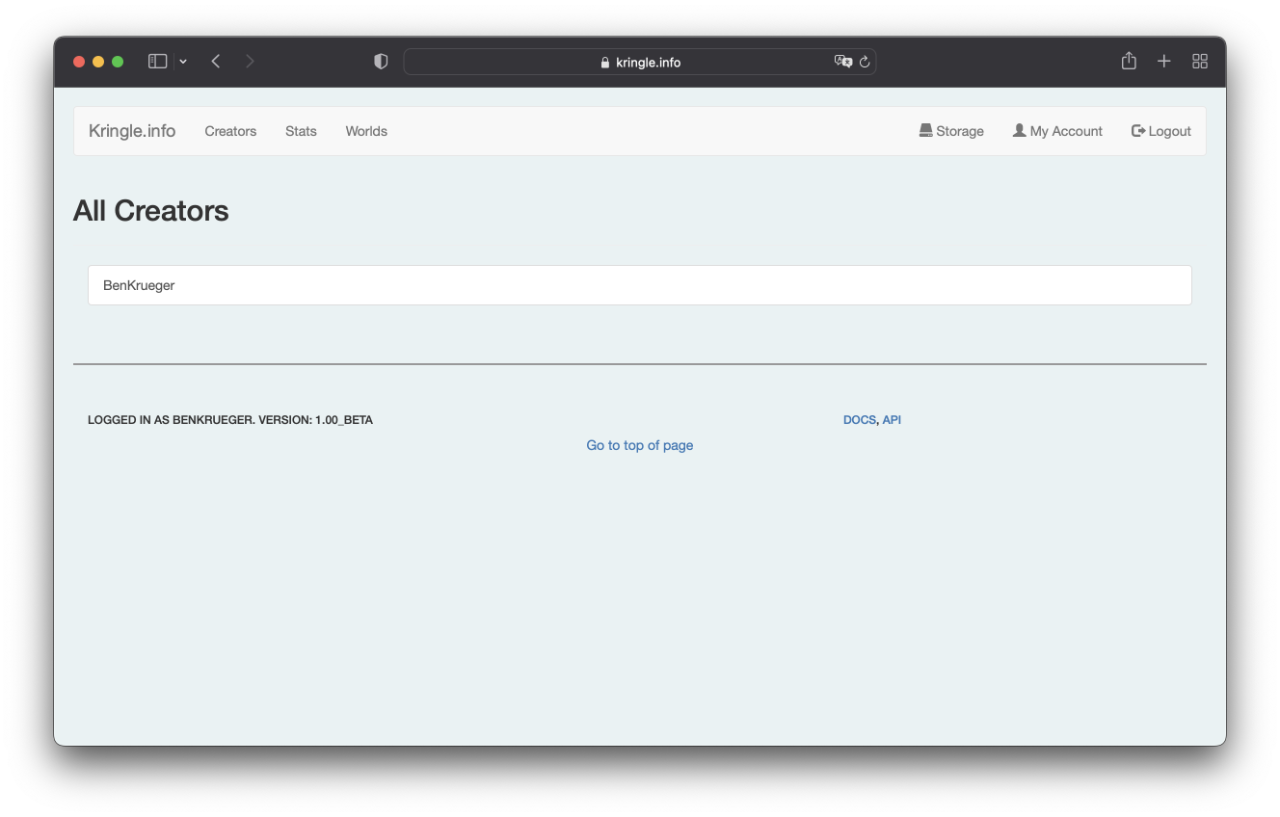
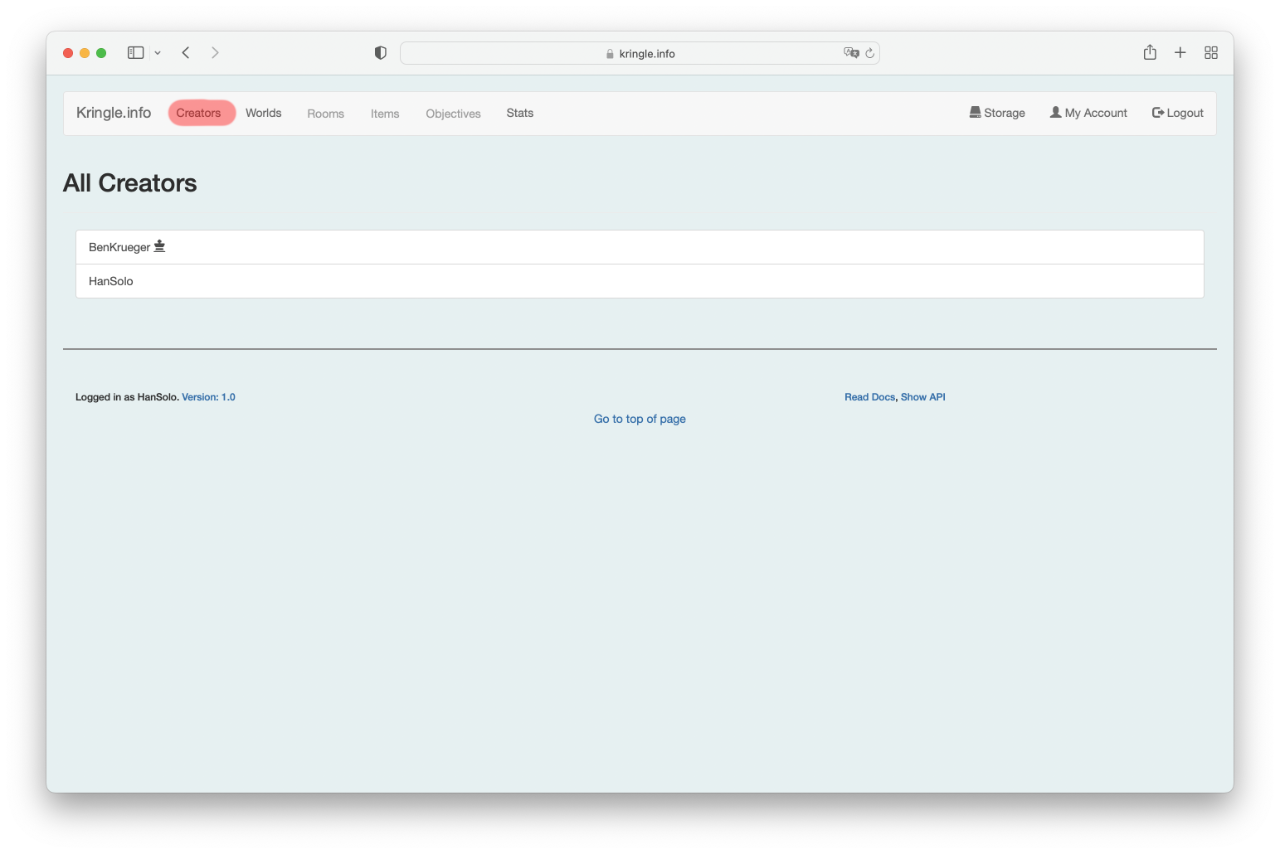
Update docs for stats and creators

diff --git a/docs/creators.md b/docs/creators.md
@@ -2,18 +2,19 @@
 
 ## All Creators
 
-You can see which creators are registered by clicking on *Creators*.  
+You can see which creators and users are registered by clicking on *Creators*.  
+Creators have a special badge.  
+
 If you click on an entry, you will be taken to the detailed view.  
 
 ![All Creators](./img/creators_all.png)
 
 ## Detailed View
 
-In the detailed view you can inform yourself about the respective creator.  
-The field *ID* shows the unique creator ID. This ID can be used for the REST API.  
-The field *Role* shows which role the creator has (anonymous user, registered user, creator).  
-The *Description* below provides a brief information about this creator.  
+In the detailed view you can inform yourself about the respective creator or user. The title also lists the role (creator or user).  
 If the creator has linked an image, it will be displayed here as well.  
+The *description* box below provides a brief information about this creator.  
+
 When you click on *All creators* you will get back to the creators overview.  
 
 ![Creator Detail 1](./img/creators_detail.png)

diff --git a/docs/stats.md b/docs/stats.md
@@ -1,6 +1,6 @@
 # Stats
 
-## Stats
+## Numbers
 
 This page just displays some statistics concerning the number of stored elements. You can reach the statistics by clicking on *Stats*. 
 
